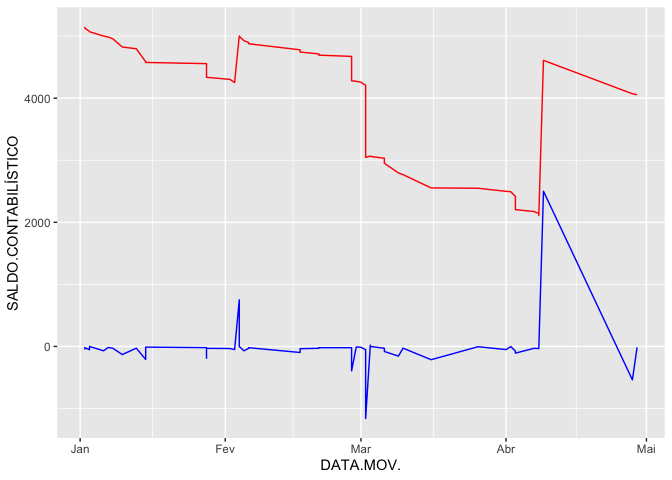
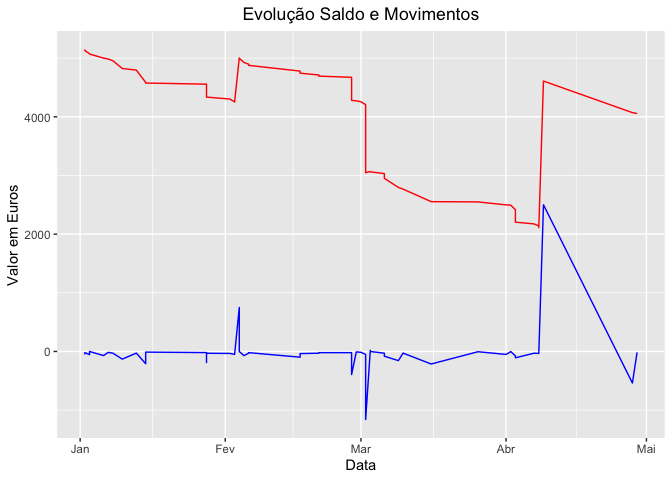
atualização dos labs e titulo do grafico

diff --git a/README.md b/README.md
@@ -48,8 +48,8 @@ Automatização dos campos de Centro de Custo e Rúbricas
 Centros de custo e rubricas existentes - GUIDELINES
 ---------------------------------------------------
 
-    ccRubi <- read.delim("./2020/CentrosdeCusto.csv", sep = ";")
-    knitr::kable(ccRubi)
+    ccRubri <- read.delim("./2020/CentrosdeCusto.csv", sep = ";")
+    knitr::kable(ccRubri)
 
 <table>
 <thead>
@@ -165,9 +165,16 @@ Centros de custo e rubricas existentes - GUIDELINES
 Evolução do gasto/receita e Saldo
 =================================
 
+Gráfico da evolução do saldo(vermelho) e dos movimentos (azul), na conta
+da SUS.
+
     library(ggplot2)
     ggplot(contasDF, aes(DATA.MOV., SALDO.CONTABILÍSTICO, IMPORTÂNCIA)) + 
             geom_line(aes(DATA.MOV., SALDO.CONTABILÍSTICO),color = "red") +
-            geom_line(aes(DATA.MOV., IMPORTÂNCIA),color = "blue")
+            geom_line(aes(DATA.MOV., IMPORTÂNCIA),color = "blue") +
+            labs(x = "Data") + 
+            labs(y = "Valor em Euros") + 
+            labs(title = "Evolução Saldo e Movimentos") + 
+            theme(plot.title = element_text(hjust = 0.5))
 
 ![](README_files/figure-markdown_strict/gasto%20e%20receita-1.png)
